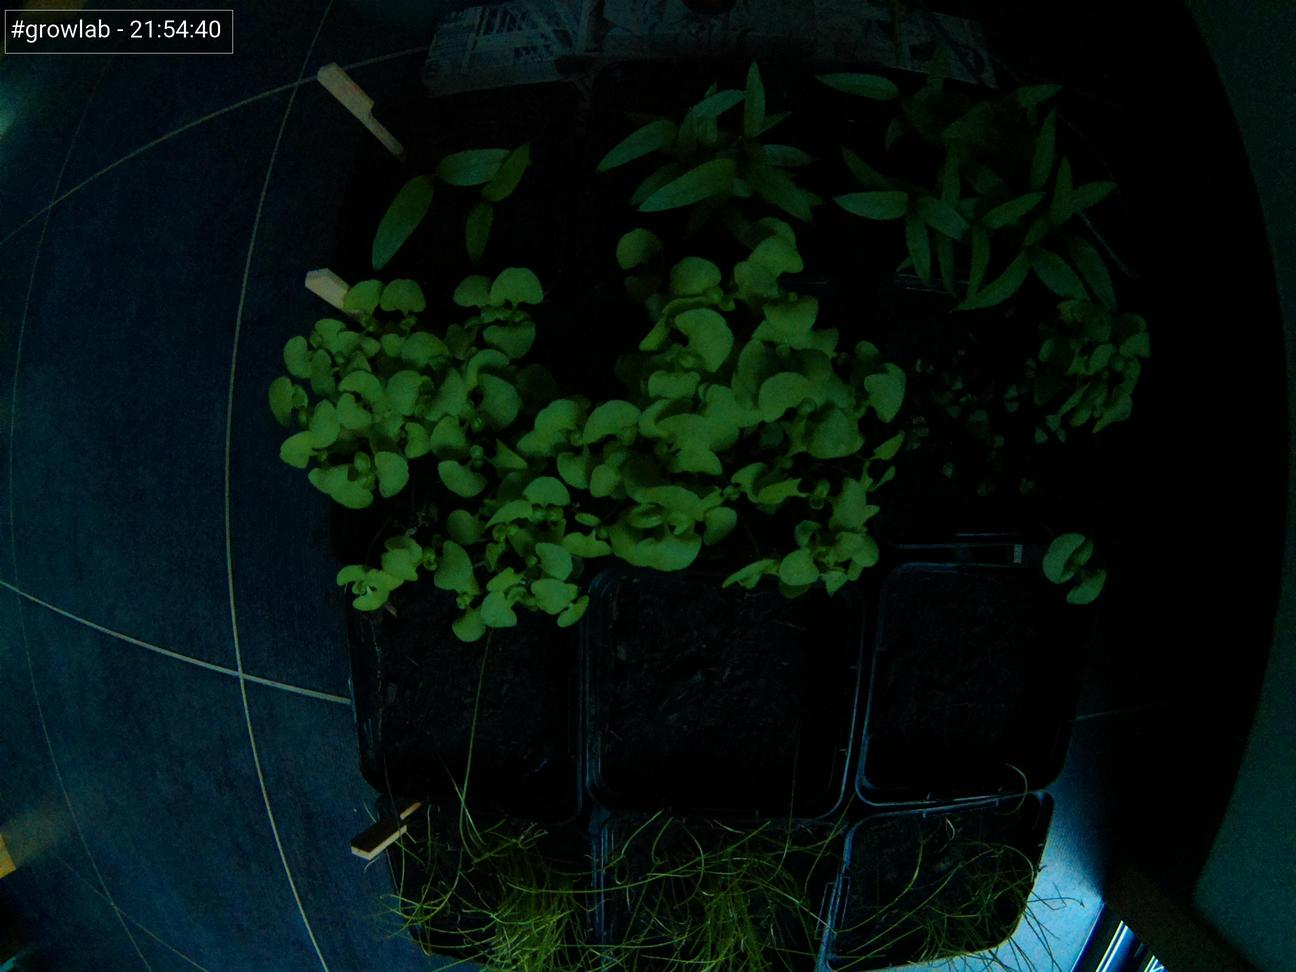
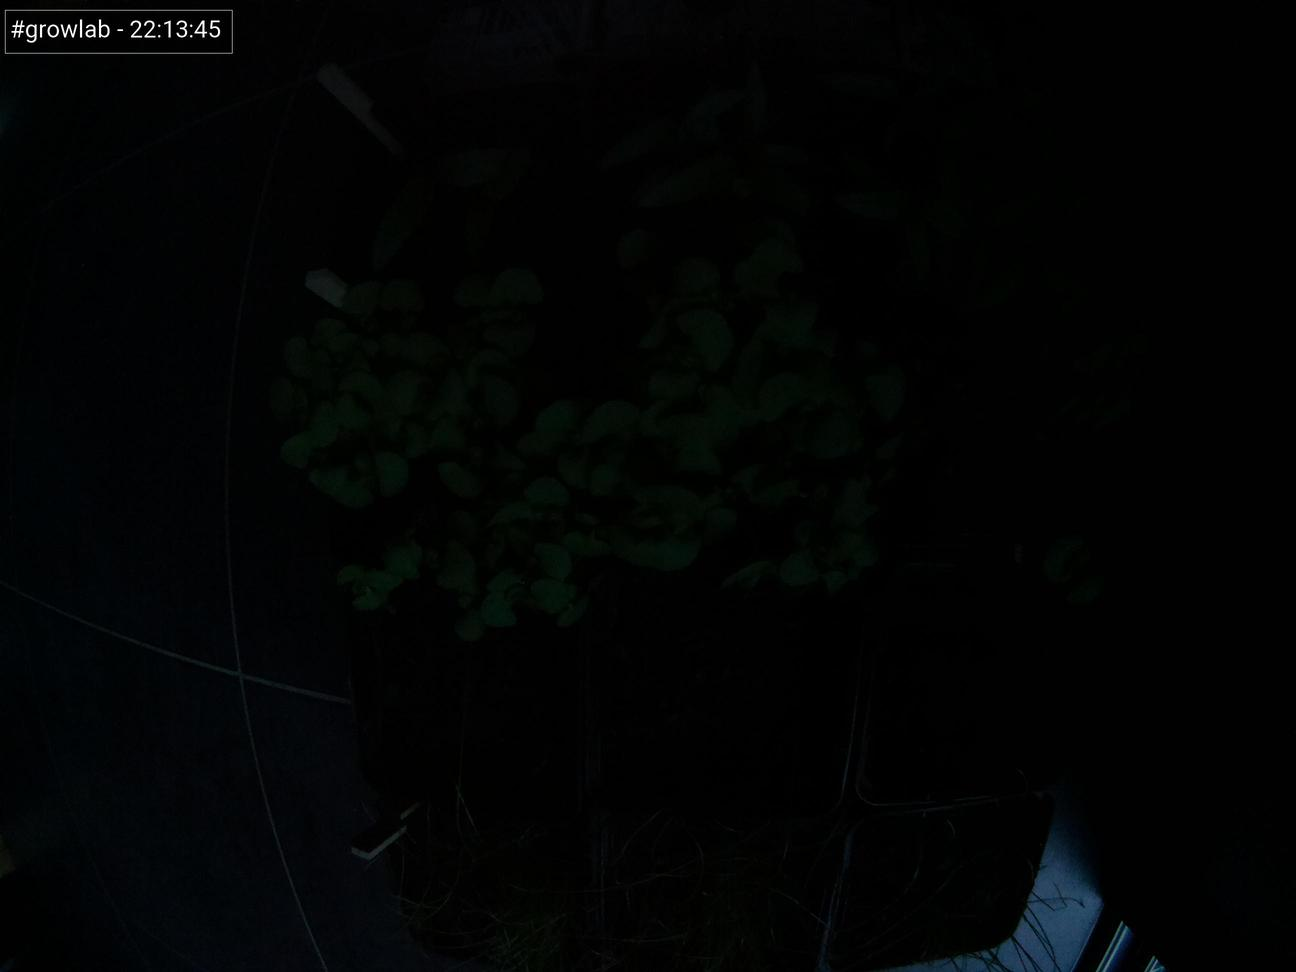
Update images at Thu 10 Jun 22:17:15 CEST 2021

diff --git a/index.html b/index.html
@@ -47,7 +47,7 @@
                         <tbody>
                             <tr>
                                 <td>Time</td>
-                                <td>21:54:40</td>
+                                <td>22:13:45</td>
                             </tr>
                             <tr>
                                 <td>Temperature</td>
@@ -67,7 +67,7 @@
 
                 <h5>Latest image</h5>
                 <div style="width: 85%;">
-                            <img class="figure-img img-fluid rounded" src="./preview.jpg?uid=1623354888.5528145">
+                            <img class="figure-img img-fluid rounded" src="./preview.jpg?uid=1623356033.603211">
                 </div>
             </div>
         </div>
